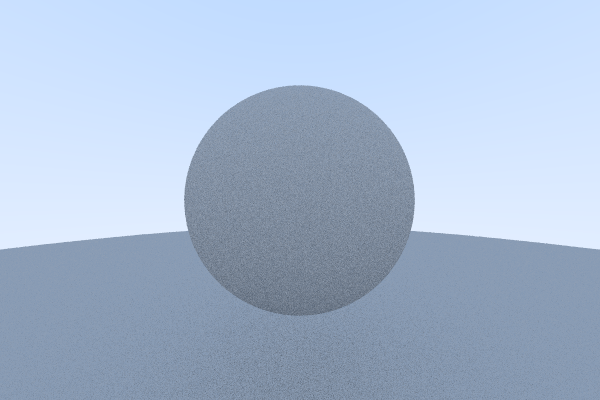
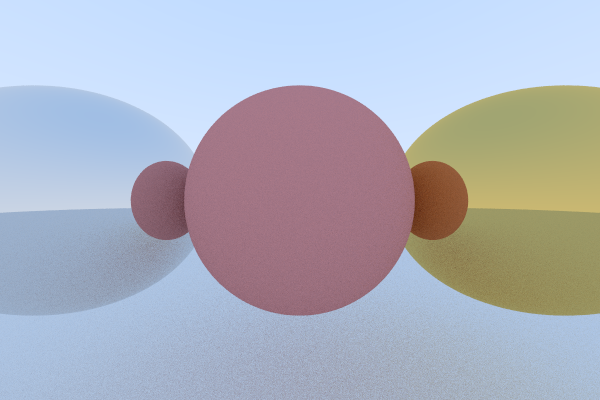
Add Material class and two materials

diff --git a/src/main.cpp b/src/main.cpp
@@ -5,6 +5,7 @@
 #include "Scene.h"
 #include "Spectra.h"
 #include "Camera.h"
+#include "Material.h"
 
 struct options {
     bool multisample;
@@ -21,9 +22,11 @@ dvec3 getRayColor(Ray ray, Scene scene, int depth) {
 
     hitRecord hits;
     if (scene.hit(ray, 0.001, infinity, hits)) {
-        dvec3 target = hits.intersection + hits.normal + Spectra::randomInUnitSphere();
-        Ray recurseRay(hits.intersection, target - hits.intersection);
-        return 0.5 * getRayColor(recurseRay, scene, depth - 1);
+        Ray scattered;
+        dvec3 attenuation;
+        if (hits.mat_ptr->scatter(ray, hits, attenuation, scattered))
+            return attenuation * getRayColor(scattered, scene, depth - 1);
+        return dvec3(0);
     }
 
     double angleWithHorizon =
@@ -49,16 +52,22 @@ int main() {
     opts.width = 600;
     opts.height = 400;
     opts.multisample = true;
-    opts.samples = 16;
-    opts.maxDepth = 10;
+    opts.samples = 50;
+    opts.maxDepth = 50;
     const double aspectRatio = static_cast<double>(opts.width) / opts.height;
 
     /*
      * Initialize scene
      */
+    auto materialGround = std::make_shared<Lambertian>(dvec3(0.8, 0.8, 0.8));
+    auto materialCenter = std::make_shared<Lambertian>(dvec3(0.7, 0.3, 0.3));
+    auto materialLeft = std::make_shared<Metal>(dvec3(0.8, 0.8, 0.8));
+    auto materialRight = std::make_shared<Metal>(dvec3(0.8, 0.6, 0.2));
     Scene scene;
-    scene.add(std::make_shared<Sphere>(dvec3(0, 1, 0), 0.5));
-    scene.add(std::make_shared<Sphere>(dvec3(0, 1, -101.5), 100.5));
+    scene.add(std::make_shared<Sphere>(dvec3(0, 1, 0), 0.5, materialCenter));
+    scene.add(std::make_shared<Sphere>(dvec3(0, 1, -101.5), 100.5, materialGround));
+    scene.add(std::make_shared<Sphere>(dvec3(1, 1, 0), 0.5, materialRight));
+    scene.add(std::make_shared<Sphere>(dvec3(-1, 1, 0), 0.5, materialLeft));
 
     Camera camera(aspectRatio, dvec3(0));
 

diff --git a/src/Material.h b/src/Material.h
@@ -1,0 +1,58 @@
+#pragma once
+#include "Entity.h"
+#include "Spectra.h"
+
+struct hitRecord;
+
+class Material {
+ public:
+    virtual bool scatter(
+        Ray ray,
+        hitRecord hits,
+        dvec3& attenuation,
+        Ray& scattered)
+        const = 0;
+};
+
+class Lambertian : public Material {
+ public:
+    Lambertian(dvec3 albedo) : m_albedo(albedo) {}
+    virtual bool scatter(
+        Ray ray,
+        hitRecord hits,
+        dvec3& attenuation,
+        Ray& scattered)
+    const override {
+        dvec3 scatterDirection = hits.normal + Spectra::randomInUnitSphere();
+        // If the vector is near zero that means the normal and the target vectors
+        // cancelled each other out. To remedy this, just set the scatterDirection
+        // vector to the normal vector.
+        if (Spectra::nearZero(scatterDirection))
+            scatterDirection = hits.normal;
+        scattered = Ray(hits.intersection, scatterDirection);
+        attenuation = m_albedo;
+        return true;
+    }
+
+ private:
+    dvec3 m_albedo;
+};
+
+class Metal : public Material {
+ public:
+    Metal(dvec3 albedo) : m_albedo(albedo) {}
+    virtual bool scatter(
+        Ray ray,
+        hitRecord hits,
+        dvec3& attenuation,
+        Ray& scattered)
+    const override {
+        dvec3 reflected = Spectra::reflect(glm::normalize(ray.getDirection()), hits.normal);
+        scattered = Ray(hits.intersection, reflected);
+        attenuation = m_albedo;
+        return glm::dot(reflected, hits.normal) > 0;
+    }
+
+ private:
+    dvec3 m_albedo;
+};

diff --git a/src/Sphere.cpp b/src/Sphere.cpp
@@ -4,9 +4,9 @@ bool Sphere::hit(Ray& ray, double t_min, double t_max, hitRecord& hits) const {
     // h = b/2
     float a, h, c;
     a = glm::dot(ray.getDirection(), ray.getDirection());
-    h = glm::dot(ray.getDirection(), (ray.getOrigin() - center));
-    c = glm::dot((ray.getOrigin() - center), (ray.getOrigin() - center))
-        - radius * radius;
+    h = glm::dot(ray.getDirection(), (ray.getOrigin() - m_center));
+    c = glm::dot((ray.getOrigin() - m_center), (ray.getOrigin() - m_center))
+        - m_radius * m_radius;
     float determinant = h * h - a * c;
     // We compare to 0.01 to account for errors made by floating point
     // operations
@@ -23,8 +23,9 @@ bool Sphere::hit(Ray& ray, double t_min, double t_max, hitRecord& hits) const {
         }
         hits.t = t;
         hits.intersection = ray.at(t);
-        dvec3 outwardNormal = glm::normalize((hits.intersection - center) / radius);
+        dvec3 outwardNormal = glm::normalize((hits.intersection - m_center) / m_radius);
         hits.setFaceNormal(ray, outwardNormal);
+        hits.mat_ptr = m_mat_ptr;
         return true;
     }
 }

diff --git a/src/Sphere.h b/src/Sphere.h
@@ -9,13 +9,17 @@ using glm::dvec3;
 class Sphere : public Entity{
  public:
     Sphere() {};
-    Sphere(dvec3 cen, double rad) : center(cen), radius(rad) {};
-    dvec3 getCenter() const { return center; }
-    double getRadius() const { return radius; }
+    Sphere(dvec3 center, double radius, std::shared_ptr<Material> mat_ptr) :
+      m_center(center),
+      m_radius(radius),
+      m_mat_ptr(mat_ptr) {};
+    dvec3 getCenter() const { return m_center; }
+    double getRadius() const { return m_radius; }
 
     virtual bool hit(Ray& ray, double t_min, double t_max, hitRecord& hits) const override;
 
  private:
-    dvec3 center;
-    double radius;
+    dvec3 m_center;
+    std::shared_ptr<Material> m_mat_ptr;
+    double m_radius;
 };

diff --git a/src/Spectra.cpp b/src/Spectra.cpp
@@ -23,3 +23,12 @@ dvec3 Spectra::randomInUnitSphere() {
         return glm::normalize(p);
     }
 }
+
+bool Spectra::nearZero(dvec3 vec) {
+    const double limit = 1e-8;
+    return (fabs(vec.x) < limit && fabs(vec.y) < limit && fabs(vec.z) < limit);
+}
+
+dvec3 Spectra::reflect(dvec3 vec, dvec3 normal) {
+    return vec - 2 * glm::dot(vec, normal) * normal;
+}

diff --git a/src/Spectra.h b/src/Spectra.h
@@ -32,6 +32,10 @@ namespace Spectra {
     inline static dvec3 randomVec(double min, double max) {
         return dvec3(randomDouble(min, max), randomDouble(min, max), randomDouble(min, max));
     }
+
+    bool nearZero(dvec3 vec);
+
+    dvec3 reflect(dvec3 vec, dvec3 normal);
     /**
      * Will return a random dvec3 inside a sphere of radius 1
     */

diff --git a/src/Entity.h b/src/Entity.h
@@ -1,11 +1,15 @@
 #pragma once
+#include <memory>
 #include "glm/glm.hpp"
 #include "Ray.h"
 
 using glm::vec3;
 
+class Material;
+
 struct hitRecord {
     dvec3 intersection, normal;
+    std::shared_ptr<Material> mat_ptr;
     double t;
     bool frontFace;
 
